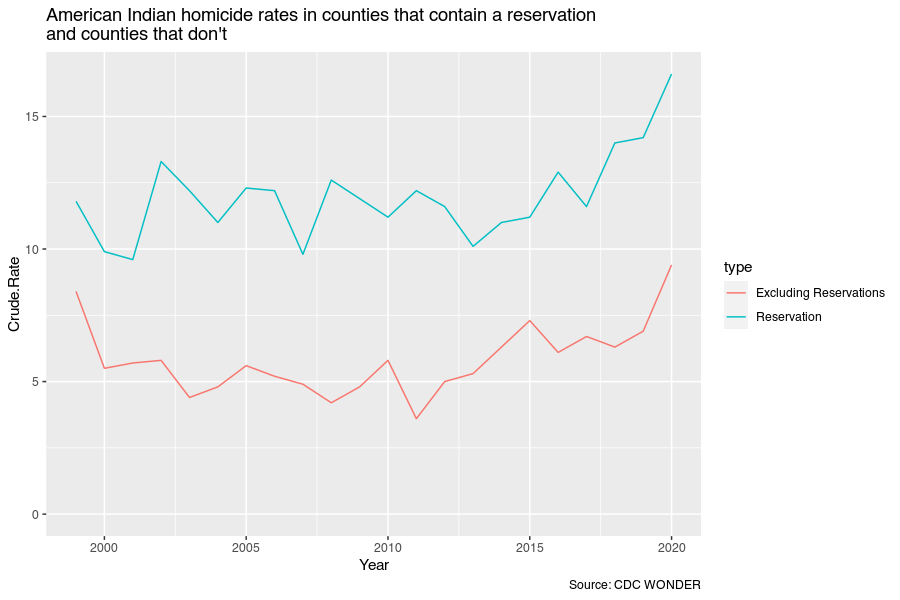
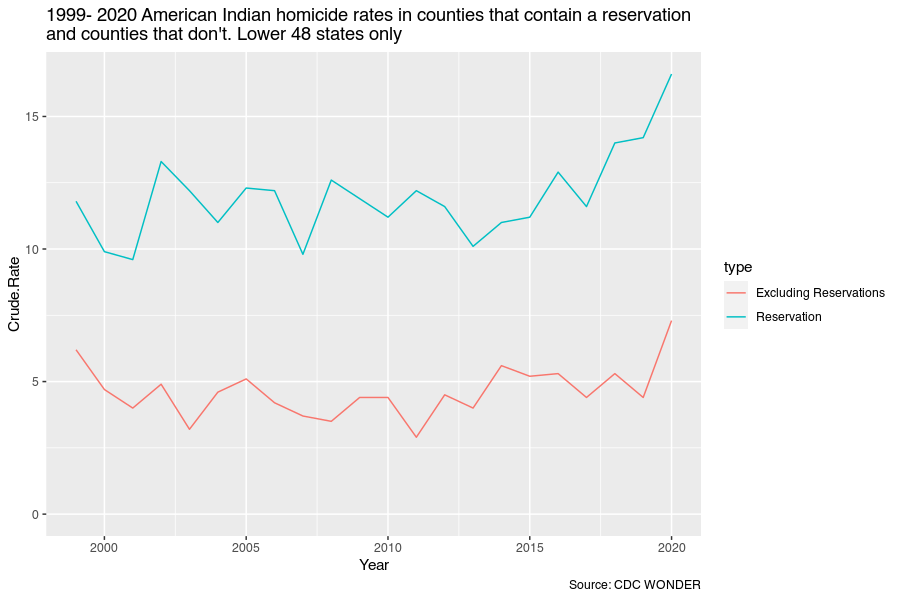
Restrict the Indian R. data to lower 48 states only

diff --git a/vignettes/Indian_Reservations_and_Homicides.md b/vignettes/Indian_Reservations_and_Homicides.md
@@ -30,7 +30,7 @@ download.file(url, paste0(tmpdir, "aiannh.tar.xz"))
 untar(paste0(tmpdir, "aiannh.tar.xz"), exdir = tmpdir )
 aiannh <- st_read(paste0(tmpdir, "/tl/", "tl_2019_us_aiannh.shp"))
 #> Reading layer `tl_2019_us_aiannh' from data source 
-#>   `/tmp/RtmpEyIr3B/tl/tl_2019_us_aiannh.shp' using driver `ESRI Shapefile'
+#>   `/tmp/RtmpzJaVER/tl/tl_2019_us_aiannh.shp' using driver `ESRI Shapefile'
 #> Simple feature collection with 848 features and 15 fields (with 6 geometries empty)
 #> Geometry type: MULTIPOLYGON
 #> Dimension:     XY
@@ -105,7 +105,12 @@ df_all <- ucd99(wonder_url = wonder_url,
                 period = 1999:2020,
                 residence_urbanization_year = "2013",
                 residence_urbanization = "All Categories",
-                residence_fips = "All",
+                residence_fips = c("01","04","05","06","08","09","10","11",
+                                   "12","13","16","17","18","19","20","21",
+                                   "22","23","24","25","26","27","28","29","30",
+                                   "31","32","33","34","35","36","37","38","39",
+                                   "40","41","42","44","45","46","47","48","49",
+                                   "50","51","53","54","55","56"),
                 weekday = c("All Weekdays"),
                 autopsy = c("All Values"),
                 place_of_death = c("All Places"),
@@ -153,7 +158,7 @@ ggplot(rbind(df_reservation, df_exclude_reservations), aes(Year, Crude.Rate,
                                                            group = type, color = type)) +
   geom_line() +
   expand_limits(y = 0) +
-  labs(title = "American Indian homicide rates in counties that contain a reservation\nand counties that don't",
+  labs(title = "1999- 2020 American Indian homicide rates in counties that contain a reservation\nand counties that don't. Lower 48 states only",
        caption = "Source: CDC WONDER")
 #> Warning: Removed 749 row(s) containing missing values (geom_path).
 ```
